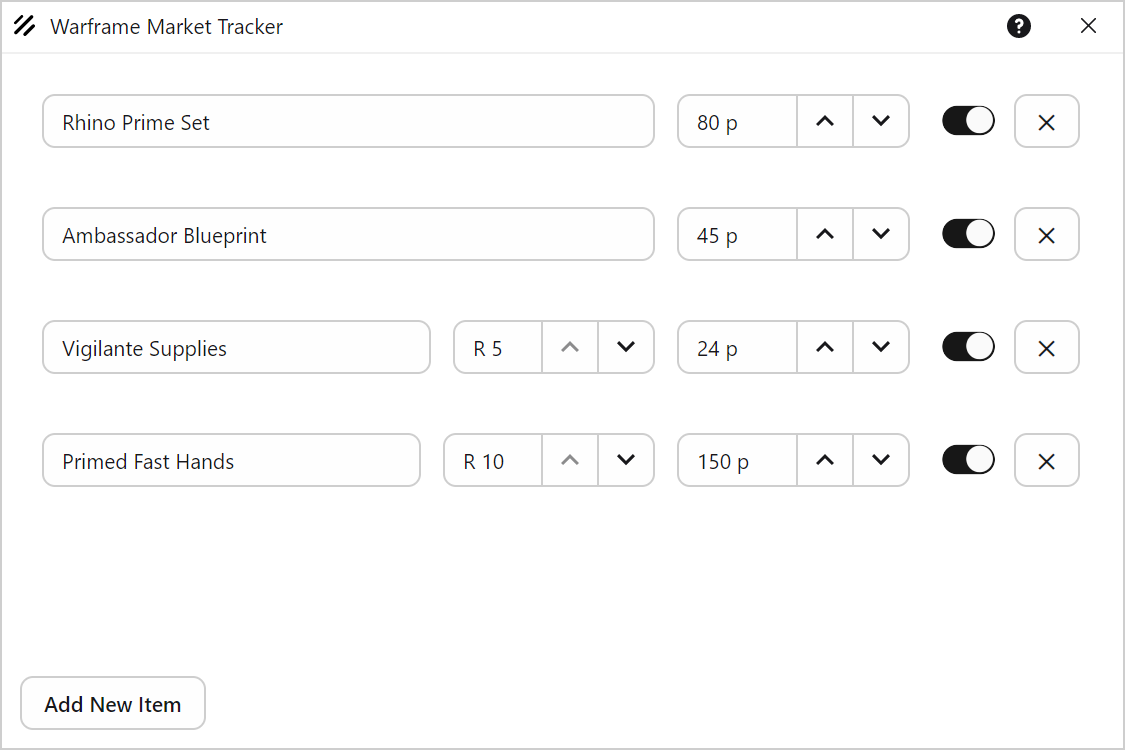
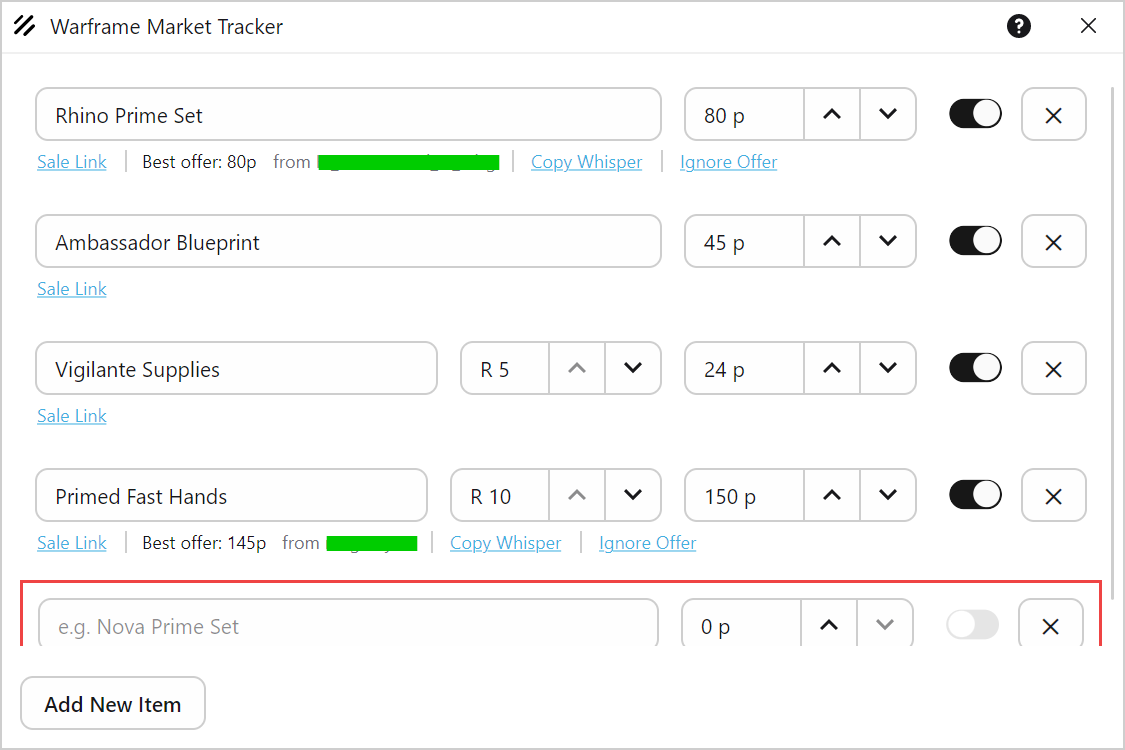
Updated documentation with new images

diff --git a/README.md b/README.md
@@ -2,15 +2,7 @@
 
 ---
 
-A lightweight desktop app that watches personally selected [warframe.market](https://warframe.market)  item prices in the background and pings you when a deal hits your target — so you don't have to constantly refresh the sellers tab or wait on a seller to click on the buyer tab; because we all know buying a deal is better than waiting for a deal.
-
-## Why this exists
-
-If you've ever left [warframe.market](https://warframe.market) open in a browser tab while playing, you've probably noticed your fans kick up due to CPU pressure reconnecting to the site's virtual tables? It is a very feature-rich website, but when watching multiple items can be CPU intensive through your browser.
-
-Chromium is and can be hungry; especially when refreshing a market page every few seconds with so many assets to snipe a deal doesn't help. I built this to solve that problem for myself: a small, native app that polls the Warframe Market API quietly in the background, uses barely any resources, and only bothers you when there's actually something worth buying.
-
-Don't get me wrong; I have personally run into a few sellers trying to create a ripple in the market and undercutting users by a good 20% in plat. Well, you can ignore this fake offer after attempting to send a whisper and seeing they are not online. The app will get back to looking for the deal you are targeting for.
+A lightweight desktop app that watches personally selected [warframe.market](https://warframe.market) item prices in the background and pings you when a deal hits your target — so you don't have to constantly refresh the sellers tab or wait on a seller to click on the buyer tab; because we all know buying a deal is better than waiting for a deal.
 
 ## Preview
 
@@ -21,9 +13,10 @@ Don't get me wrong; I have personally run into a few sellers trying to create a 
 ## What it does
 
 - **Track items by name** — search from the full [warframe.market](https://warframe.market) item catalog with autocomplete
-  - **Persistence** — the app will save and restore the items you are tracking automatically
+  - **Persistence** — the app will save and restore the items you are tracking automatically during app session and on close
 - **Set your price** — pick a platinum threshold per item, optionally filter by mod rank
-- **Get notified** — Cross-platform native notification when an in-game seller lists at or below your target
+- **Get notified** — cross-platform native notification when an in-game seller lists at or below your target
+  - **Sales link** — open the tracked items sale page
   - **Copy the whisper** — one click on the notification copies the `/w` trade message to your clipboard, ready to paste in-game, all while using the same [warframe.market](https://warframe.market) standard
   - **Ignore offers** — dismiss a specific seller's order so you stop hearing about it during app session
 - **Lives in your tray** — closing the window hides it to the system tray, the poller keeps running no matter what
@@ -33,14 +26,11 @@ Don't get me wrong; I have personally run into a few sellers trying to create a 
 
 Every 15 seconds, the app checks the Warframe Market API for the lowest sell order on each item you're tracking. It only looks at sellers who are currently in-game (so you're not chasing offline ghosts). If the price is at or below your target, you get a toast notification. It won't spam you — it only re-notifies when the price drops *lower* than what it already told you about.
 
-## Limitation
-
-At the moment if the notification get's automatically dismissed to the action/notification center, it will no longer be able to respond to actions. I believe this is a current implementation limit with the framework I am using. In the mean time, I am considering putting a status label under each item.
-
 ## OS Notification Settings
 
-- **Windows 11**: Settings > Accessibillity > Visual effects > Dismiss notifications after this amount of time {drop down}
-  - Turn off Do Not Disturb settings to allow the pop-up to overlay the game.
+- **Windows 11** 
+  - Settings > Accessibility > [Visual effects](ms-settings:easeofaccess-visualeffects) > Dismiss notifications after this amount of time {drop down}
+  - Settings > [Notifications](ms-settings:notifications) > Turn off Do Not Disturb settings to allow the pop-up to overlay the game.
 - **Linux**
   - **KDE Plasma**: System settings > Personalization > Notifications > Hide popup after {drop down}
 
@@ -54,19 +44,6 @@ cd WarframeMarketTracker
 dotnet run
 ```
 
-## Tech stack
-
-- [Avalonia UI](https://avaloniaui.net/) with [ShadUI](https://github.com/anthropics/ShadUI) theming
-- [CommunityToolkit.Mvvm](https://learn.microsoft.com/en-us/dotnet/communitytoolkit/mvvm/) for MVVM plumbing
-- [Microsoft.Extensions.Hosting](https://learn.microsoft.com/en-us/dotnet/core/extensions/generic-host) for DI and background services
-- [Serilog](https://serilog.net/) for structured logging
-- [Avalonia.Labs.Notifications](https://github.com/AvaloniaUI/Avalonia.Labs) for native cross platform toast notifications
-- C# 14 / .NET 10
-
 ## License
 
 [MIT](LICENSE)
-
-## TODO
-
-Further refine documentation as more users adopt the tool.
